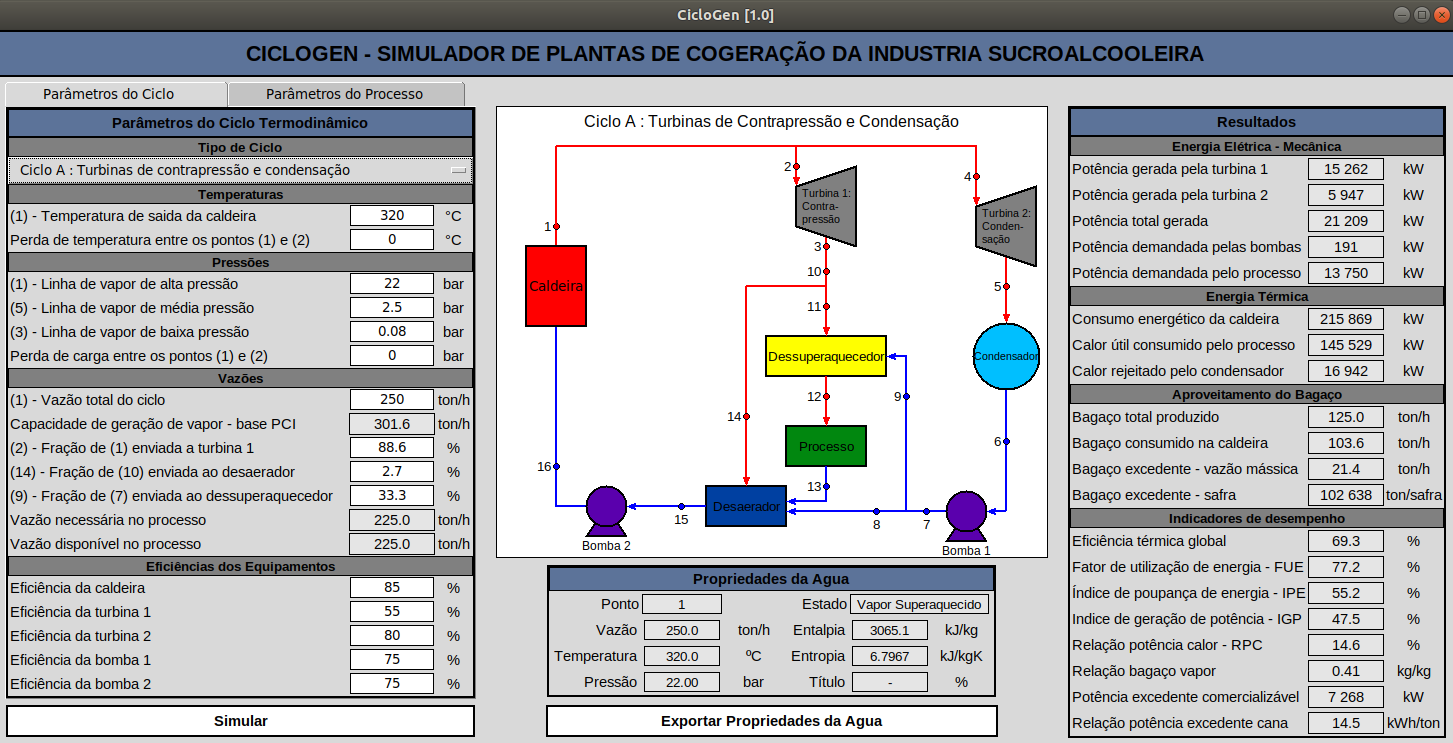
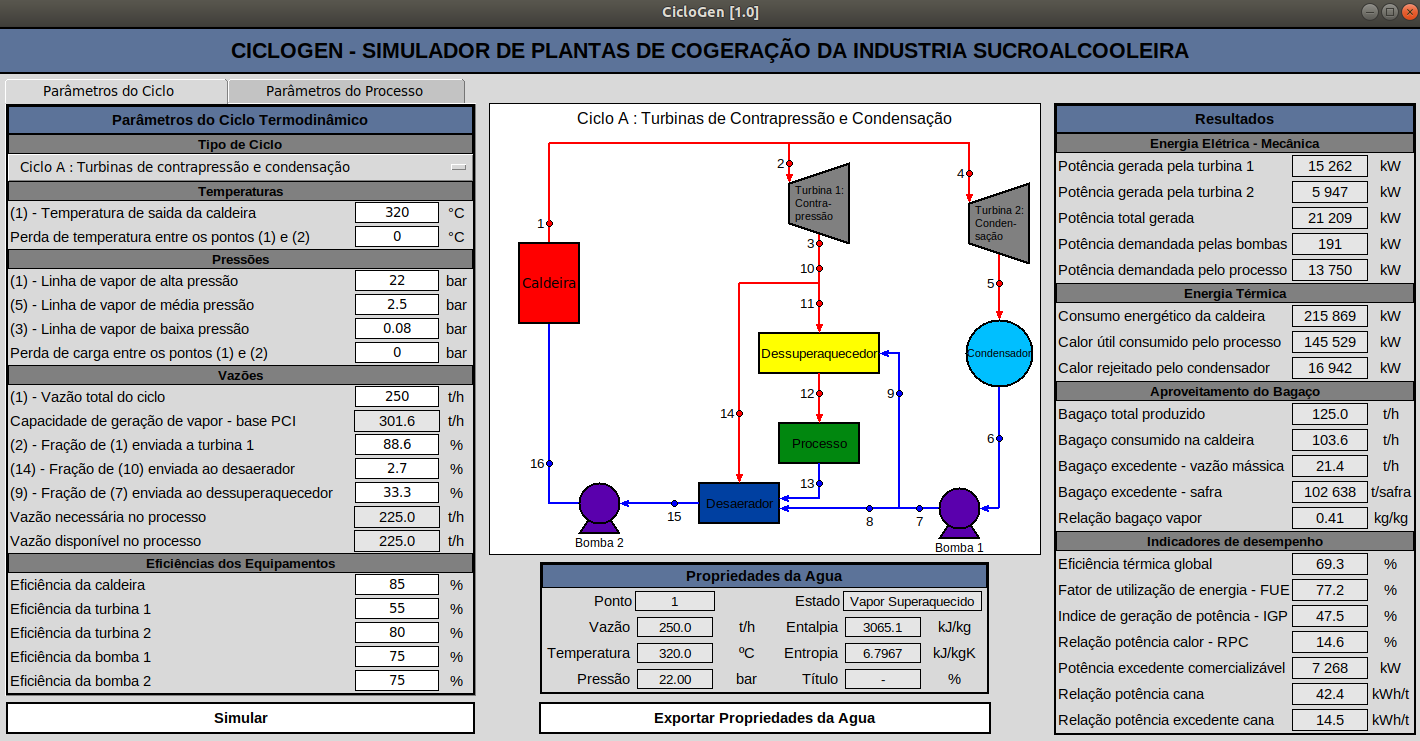
updates

Changed region(s): [[0.0, 0.0, 1.0, 0.9933]]

diff --git a/software/ciclogen_module/result_display.py b/software/ciclogen_module/result_display.py
@@ -18,7 +18,7 @@ class ResultDisplay(Frame):
         
         self.property_style= {'font':'Arial 11', 'bd':1, 'anchor':'w', 'pady':3}
         self.value_style= {'font':'Arial 11', 'bd':1, 'width':9,'relief':SOLID, 'pady':1, 'bg':'gray90'}
-        self.unit_style= {'font':'Arial 11', 'pady':1,'padx':1}
+        self.unit_style= {'font':'Arial 11', 'pady':1,'padx':2}
         
         # ---------------------- Grids ----------------------
         self.title_grid= {'column':0, 'columnspan':3, 'sticky':'we'}
@@ -50,22 +50,22 @@ class ResultDisplay(Frame):
         self.create_title('Aproveitamento do Bagaço', self.sub_title_style)
 
 
-        self.create_display('m_bag_tot','Bagaço total produzido','ton/h')
-        self.create_display('m_bag_cald','Bagaço consumido na caldeira','ton/h')
-        self.create_display('m_bag_exc','Bagaço excedente - vazão mássica','ton/h')
-        self.create_display('bag_exc_safra','Bagaço excedente - safra','ton/safra')
+        self.create_display('m_bag_tot','Bagaço total produzido','t/h')
+        self.create_display('m_bag_cald','Bagaço consumido na caldeira','t/h')
+        self.create_display('m_bag_exc','Bagaço excedente - vazão mássica','t/h')
+        self.create_display('bag_exc_safra','Bagaço excedente - safra','t/safra')
+        self.create_display('r_bag_vap','Relação bagaço vapor','kg/kg')
         
 
         # # ---------------------- Indices de desempenho ----------------------
         self.create_title('Indicadores de desempenho', self.sub_title_style)
         self.create_display('n_th','Eficiência térmica global','%')
         self.create_display('FUE','Fator de utilização de energia - FUE','%')
-        self.create_display('IPE','Índice de poupança de energia - IPE','%')
         self.create_display('IGP','Indice de geração de potência - IGP','%')
-        self.create_display('RPC','Relação potência calor - RCP','%')
-        self.create_display('r_bag_vap','Relação bagaço vapor','kg/kg')
+        self.create_display('RPC','Relação potência calor - RPC','%')
         self.create_display('w_excedente','Potência excedente comercializável','kW')
-        self.create_display('r_pot_ele_cana','Relação potência elétrica cana','kWh/ton')
+        self.create_display('r_pot_cana','Relação potência cana','kWh/t')
+        self.create_display('r_pot_ele_cana','Relação potência excedente cana','kWh/t')
 
         
         
@@ -81,13 +81,13 @@ class ResultDisplay(Frame):
         
         W_planta = results.get('W_planta')
         w_excedente = results.get('w_excedente')
+        r_pot_cana = results.get('r_pot_cana')
         r_pot_ele_cana = results.get('r_pot_ele_cana')
         r_bag_vap = results.get('r_bag_vap')
         
         FUE = results.get('FUE')
         IGP = results.get('IGP')
         RPC = results.get('RPC')
-        IPE = results.get('IPE')
         n_th = results.get('n_th')
 
         m_bag_cald = results.get('m_bag_cald')
@@ -104,7 +104,8 @@ class ResultDisplay(Frame):
         self.set_display_k('Qp',Qp)
         
         self.set_display_2f('r_bag_vap',r_bag_vap)
-        self.set_display_k('r_pot_ele_cana',r_pot_ele_cana)
+        self.set_display_1f('r_pot_cana',r_pot_cana)
+        self.set_display_1f('r_pot_ele_cana',r_pot_ele_cana)
         self.set_display_k('W_planta',W_planta)
         self.set_display_k('w_excedente',w_excedente)
         self.set_display_1f('m_bag_cald',m_bag_cald)
@@ -112,11 +113,10 @@ class ResultDisplay(Frame):
         self.set_display_1f('m_bag_exc',m_bag_exc)
         self.set_display_k('bag_exc_safra',bag_exc_safra)
         
-        self.set_display_2f('n_th',n_th)
-        self.set_display_2f('FUE',FUE)
-        self.set_display_2f('IPE',IPE)
-        self.set_display_2f('IGP',IGP)
-        self.set_display_2f('RPC',RPC)
+        self.set_display_1f('n_th',n_th)
+        self.set_display_1f('FUE',FUE)
+        self.set_display_1f('IGP',IGP)
+        self.set_display_1f('RPC',RPC)
 
 
 # # ---------------------- Frontend ----------------------

diff --git a/software/ciclogen_module/cycle_params_tab.py b/software/ciclogen_module/cycle_params_tab.py
@@ -26,7 +26,7 @@ class CycleParamsTab(Frame):
         self.property_style= {'font':'Arial 11','anchor':'w', 'pady':2, 'padx':1}
         self.entry_style= {'bd':1, 'relief':SOLID,'width':10, 'justify':CENTER}
         self.value_style= {'font':'Arial 11', 'bd':1, 'relief':SOLID, 'bg':'gray90','width':9}
-        self.unit_style= {'font':'Arial 11', 'pady':2}
+        self.unit_style= {'font':'Arial 11', 'pady':2, 'padx':4}
         
         # ---------------------- Grids ----------------------
         self.title_grid= {'column':0, 'columnspan':3, 'sticky':'we'}
@@ -64,8 +64,8 @@ class CycleParamsTab(Frame):
         
         # --------------------- Vazões ---------------------
         self.create_title('Vazões', self.sub_title_style)
-        self.create_input('m1','(1) - Vazão total do ciclo','ton/h')
-        self.create_display('vazao_max_disponivel','Capacidade de geração de vapor - base PCI','ton/h')
+        self.create_input('m1','(1) - Vazão total do ciclo','t/h')
+        self.create_display('vazao_max_disponivel','Capacidade de geração de vapor - base PCI','t/h')
         
         self.label_vazao_2_4 = StringVar()
         Label(self, textvariable =self.label_vazao_2_4, **self.property_style).grid(row=self.row, **self.property_grid)
@@ -77,8 +77,8 @@ class CycleParamsTab(Frame):
         self.create_input('f14','(14) - Fração de (10) enviada ao desaerador','%')
         self.create_input('f9','(9) - Fração de (7) enviada ao dessuperaquecedor','%')
         
-        self.create_display('m_vapor_p_necessario','Vazão necessária no processo','ton/h')
-        self.create_display('m_vapor_p_disp','Vazão disponível no processo','ton/h')
+        self.create_display('m_vapor_p_necessario','Vazão necessária no processo','t/h')
+        self.create_display('m_vapor_p_disp','Vazão disponível no processo','t/h')
 
                 
         # --------------------- Eficiencias ---------------------
@@ -104,10 +104,10 @@ class CycleParamsTab(Frame):
         percentages = ['f2_10','f14','f9','n_cald','n_t1','n_t2','n_b1','n_b2']
         params_dic = {}
         for key, v in self.inputs.items():
-            value = float(v.get())
+            value = float(v.get().replace(',','.'))
             value = value + 273.15 if key in temperatures else value  # Convert [C] to [K]
             value = value * 1e5 if key in pressures else value        # Convert [bar] to [Pa]
-            value = value / 3.6 if key in flow else value             # Convert [ton/h] to [kg/s]
+            value = value / 3.6 if key in flow else value             # Convert [t/h] to [kg/s]
             value = value/100 if key in percentages else value        # Convert % to number
 
             params_dic[key] = value
@@ -140,9 +140,9 @@ class CycleParamsTab(Frame):
         m_vapor_p_disp = results['m_vapor_p_disp']
         vazao_max_disponivel      = results['vazao_max_disponivel']
 
-        self.displays['m_vapor_p_necessario'].set(f'{m_vapor_p_necessario:.2f}')
-        self.displays['m_vapor_p_disp'].set(f'{m_vapor_p_disp:.2f}')
-        self.displays['vazao_max_disponivel'].set(f'{vazao_max_disponivel:.2f}')
+        self.displays['m_vapor_p_necessario'].set(f'{m_vapor_p_necessario:.1f}')
+        self.displays['m_vapor_p_disp'].set(f'{m_vapor_p_disp:.1f}')
+        self.displays['vazao_max_disponivel'].set(f'{vazao_max_disponivel:.1f}')
 
 
 # ------------------------------Frontend-------------------------------- "

diff --git a/software/ciclogen_module/thermo_classes.py b/software/ciclogen_module/thermo_classes.py
@@ -58,16 +58,6 @@ class State:
             return 'Vapor Superaquecido'
 
 
-    def __str__(self):
-        t = self.get_T()-271.15
-        p = self.get_P()/1000
-        h = self.get_H()/1000
-        s = self.get_S()/1000
-        m = self.get_m()
-        text = f'Properties of the point:\n• Temperature [C] = {t:.2f}\n• Pressure [kPa] = {p:,}\n• Enthalpy [kJ/kg] = {h:.2f}\n• Entropy [kJ/Kg.K] = {s:.4f}\n• M [kg/s] = {m:.2f}'.replace(',',' ')
-        return text
-        
-
 '--------------------- MODELAGEM DOS DIFERENTES COMPONENTES PRESENTES NO CICLO ---------------------'        
 
 #------------------ BOMBA
@@ -121,8 +111,6 @@ class Boiler:
         else:
             return None
     
-    def get_info(self):
-        return {'prop':'mPCI','value':self.get_mPCI()/1000,'unit': 'KW', 'name':self.name}
                
 
 #------------------ TURBINA
@@ -144,9 +132,6 @@ class Turbine:
     def get_work(self):
         return (self.state_in.get_H() - self.state_out.get_H()) * self.m
     
-    def get_info(self):
-        return {'prop':'W','value':self.get_work()/1000,'unit': 'KW', 'name':self.name}
-    
 #------------------  CONDENSADOR    
 class Condenser:
     def __init__(self,state_in, n=1, Q_out = 0, name=''):
@@ -162,8 +147,6 @@ class Condenser:
     def get_Ql(self):
         return (self.state_in.get_H() - self.state_out.get_H()) * self.m
     
-    def get_info(self):
-        return {'prop':'Ql','value':self.get_Ql()/1000,'unit': 'KW', 'name':self.name}
 
 #------------------  MISTURADOR    
 class Mixer:
@@ -184,8 +167,6 @@ class Mixer:
     def get_state_out(self):
         return self.state_out
 
-    def get_info(self):
-        return None
  
  #------------------  PROCESSO    
 
@@ -205,5 +186,3 @@ class Process:
     def get_state_out(self):
         return self.state_out
 
-    def get_info(self):
-        return {'prop':'W','value':self.w/1e6,'unit': 'MW','name':self.name}

diff --git a/software/ciclogen_module/init_values.py b/software/ciclogen_module/init_values.py
@@ -1,36 +1,4 @@
 
-
-#  ------------------ Ciclo Genérico ------------------------
-
-generic_cycle_inputs = { 
-    't1': 320,
-    'delta_t':0 ,
-    'p1': 22,
-    'p3': 2.5,
-    'p5': 0.08,
-    'delta_p': 0,
-    'm1': 240,
-    'f2_10': 69.2,
-    'f14': 3.3,
-    'f9': 10,
-    'n_cald': 85 ,
-    'n_t1': 55,
-    'n_t2': 70,
-    'n_b1': 45,
-    'n_b2': 45 
-    }
-
-generic_process_inputs = {
-    'm_cana_hora':500,
-    'dias_operacao':200,
-    'fracao_bagaco_cana':25,
-    'pci_bagaco':7500,
-    'consumo_vapor':335,
-    't_saida_processo':90,
-    'demanda_mecanica_equip':15,
-    'demanda_eletrica_equip':12.5
-}
-
 #  ------------------ DOURADOS ------------------------
 
 dourados_cycle_inputs = { 
@@ -93,7 +61,41 @@ passolongo_process_inputs = {
     'demanda_eletrica_equip':12
 }
 
+#  ------------------ Ciclo Genérico ------------------------
+
+generic_cycle_inputs = { 
+    't1': 320,
+    'delta_t':0 ,
+    'p1': 22,
+    'p3': 2.5,
+    'p5': 0.08,
+    'delta_p': 0,
+    'm1': 250,
+    'f2_10': 88.6,
+    'f14': 2.7,
+    'f9': 33.3,
+    'n_cald': 85 ,
+    'n_t1': 55,
+    'n_t2': 80,
+    'n_b1': 75,
+    'n_b2': 75 
+    }
+
+generic_process_inputs = {
+    'm_cana_hora':500,
+    'dias_operacao':200,
+    'fracao_bagaco_cana':25,
+    'pci_bagaco':7500,
+    'consumo_vapor':450,
+    't_saida_processo':90,
+    'demanda_mecanica_equip':15,
+    'demanda_eletrica_equip':12.5
+}
+
+
+
 # ------------ ESCOLHA DOS DADOS USADOS PARA INICIAR O CICLO ----------------
+
 
 cycle_inputs = generic_cycle_inputs
 process_inputs = generic_process_inputs

diff --git a/software/ciclogen_module/main_page.py b/software/ciclogen_module/main_page.py
@@ -43,7 +43,7 @@ class PageOne(Frame):
 
         # ------ Column 0 ---------
         self.col_0 = Frame(self)
-        self.col_0.grid(row=1, column=0, sticky='nw', padx=10, pady=5)
+        self.col_0.grid(row=1, column=0, sticky='nw', padx=8, pady=5)
 
         self.parameters_menu = ParametersMenu(self.col_0, self)
         self.parameters_menu.grid(row=0, column=0, sticky='nw')
@@ -54,7 +54,7 @@ class PageOne(Frame):
         #  ------ Column 1 -----
         
         self.col_1 = Frame(self)
-        self.col_1.grid(row=1, column=1, sticky='nw', padx=10, pady=(24,0))
+        self.col_1.grid(row=1, column=1, sticky='nw', padx=5, pady=(24,0))
         
         self.canvas = Canvas_cycle(self.col_1, self)
         self.canvas.grid(row=0, column=0, sticky='new', pady=5)
@@ -68,7 +68,7 @@ class PageOne(Frame):
 
         # ------ Column 2 ---------
         self.col_2 = Frame(self)
-        self.col_2.grid(row=1, column=2, sticky='nw', padx=10, pady=(24,0))
+        self.col_2.grid(row=1, column=2, sticky='nw', padx=8, pady=(24,0))
 
         self.result_display = ResultDisplay(self.col_2, self)
         self.result_display.grid(row=0, column=0, sticky='nw', pady=5)   

diff --git a/software/ciclogen_module/thermo_cycle.py b/software/ciclogen_module/thermo_cycle.py
@@ -156,14 +156,14 @@ class Ciclogen_thermo_cycle:
         m_bag_exc = m_bag_tot - m_bag_cald                    #[ton/h]
         bag_exc_safra = m_bag_exc*24*dias_operacao            #[ton/safra]
 
+        n_th = (Wt+Qp-Wb-Ql) / mPCI    *100
         FUE =  (Wt+Qp) / mPCI          *100
-        IPE = mPCI/(Wt/.77 + Qp/.4) * 100
         IGP = Wt / (mPCI - Qp/n_cald)  *100
         RPC = Wt/Qp                    *100
-        n_th = (Wt+Qp-Wb-Ql) / mPCI    *100
 
 
         w_excedente = Wt - Wb - W_planta
+        r_pot_cana = Wt/m_cana_hora
         r_pot_ele_cana = w_excedente/m_cana_hora      #[kWh/ton] #relacao potenciaEcana
         r_bag_vap = m_bag_cald/m_vapor_caldeira
 
@@ -179,8 +179,8 @@ class Ciclogen_thermo_cycle:
             'n_th' : n_th,       
             'FUE':FUE,
             'IGP' : IGP,
-            'IPE':IPE,
             'RPC':RPC,
+            'r_pot_cana':r_pot_cana,
             'w_excedente' : w_excedente,
             'r_pot_ele_cana':r_pot_ele_cana,
             'r_bag_vap':r_bag_vap,

diff --git a/software/ciclogen_module/info_display.py b/software/ciclogen_module/info_display.py
@@ -42,7 +42,7 @@ class InfoDisplay(Frame):
         Label(self, textvariable=self.display['fluid_state'], **self.estado_value_style).grid(row=1, column=4, columnspan=2, sticky='w')
 
         
-        self.create_display('m','Vazão','ton/h',2,0)
+        self.create_display('m','Vazão','t/h',2,0)
         self.create_display('T','Temperatura','ºC',3,0)
         self.create_display('P','Pressão','bar',4,0)
         
@@ -70,7 +70,7 @@ class InfoDisplay(Frame):
         self.display['fluid_state'].set(fluid_state)
         self.display['T'].set(f'{T:.1f}')
         self.display['P'].set(f'{P:.2f}')
-        self.display['H'].set(f'{H:.2f}')
+        self.display['H'].set(f'{H:.1f}')
         self.display['S'].set(f'{S:.4f}')
         self.display['X'].set(f'{X:.1f}') if type(X)==float else self.display['X'].set('-')
         self.display['m'].set(f'{m:.1f}')

diff --git a/software/ciclogen_module/process_params_tab.py b/software/ciclogen_module/process_params_tab.py
@@ -134,7 +134,7 @@ class ProcessParamsTab(Frame):
         return process_params
 
     def get_input(self, input_id):
-        return float(self.inputs[input_id].get())
+        return float(self.inputs[input_id].get().replace(',','.'))
 
     def get_display(self, display_id):
         return float(self.displays[display_id].get().replace(' ',''))
